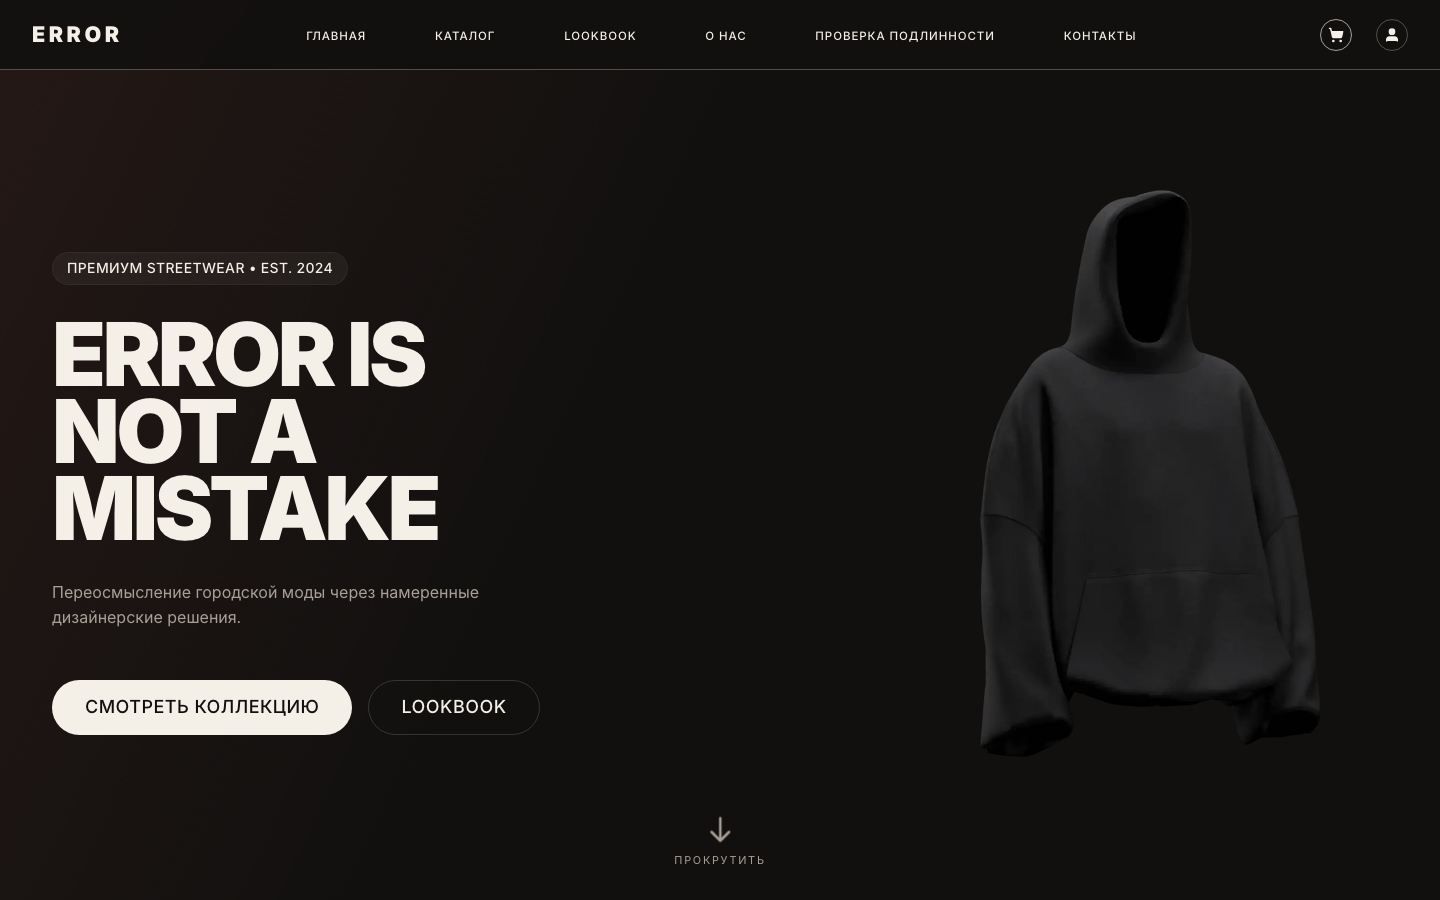
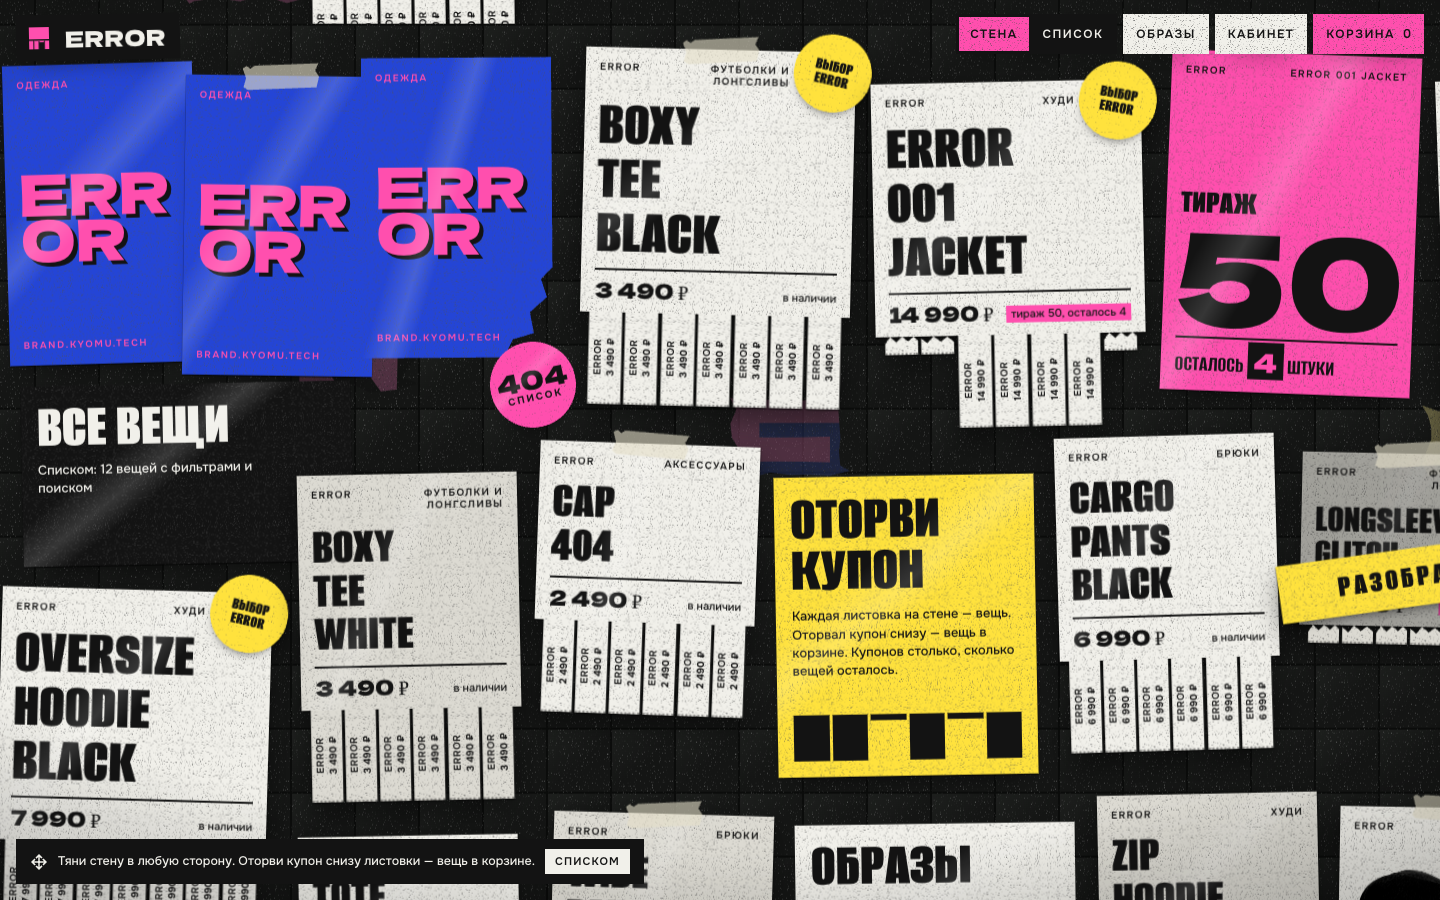
[main] Новые скриншоты и описание errorBrand

diff --git a/src/content/projects/error-brand/index.md b/src/content/projects/error-brand/index.md
@@ -2,8 +2,8 @@
 order: 4
 title: Интернет-магазин errorBrand
 kind: personal
-summary: 'Магазин бренда минималистичной одежды: каталог, корзина, личный кабинет и лукбук. Товары и покупатели хранятся в моей админ-панели.'
-stack: [TypeScript, Next.js, React, Sass, React Hook Form, Zod]
+summary: 'Магазин уличного бренда ERROR: вещи висят на бесконечной стене как отрывные объявления — оторвал купон, и вещь в корзине. Для тех, кто не хочет искать, рядом обычный список с фильтрами. Товары, заказы и покупатели хранятся в моей админ-панели.'
+stack: [TypeScript, Next.js, React, Sass, React Hook Form]
 role: Frontend
 year: '2026'
 cover: /projects/error-brand/cover.png
@@ -11,33 +11,46 @@ url: https://brand.kyomu.tech
 case:
     period: '2026'
     team: Один
-    task: 'Сделать витрину для бренда одежды, которая не хранит данные сама, а берёт их из админ-панели: каталог, остатки, аккаунты покупателей. Сотрудники меняют товар в админке — и через полминуты он обновляется на сайте.'
-    approach: 'Собрал свой набор базовых компонентов — кнопки, карточки, поля, модальные окна — и из них все страницы: главная, каталог, карточка товара, корзина, личный кабинет, лукбук и блог. Отдельно продумал состояния загрузки, пустых списков и ошибок, а также вёрстку под телефоны.'
+    task: 'Сделать витрину для уличного бренда, которая запоминается и при этом удобна для покупки. Данные сайт не хранит сам, а берёт из админ-панели: каталог, остатки, тиражи, аккаунты покупателей и заказы.'
+    approach: 'Главная — бесконечная стена из кафеля, которую тянут в любую сторону. Вещи висят на ней листовками с отрывными купонами: купон отрывается прямо в корзину, клик по листовке открывает карточку вещи. Рядом переключатель на обычный список с поиском и фильтрами, чтобы никто не потерялся. Остальные страницы — корзина, оформление, кабинет, образы — собраны из тех же бумажных элементов.'
     decisions:
-        - title: Секретный ключ не попадает в браузер
-          description: 'Запросы к админке идут только с сервера сайта. Браузер покупателя обращается к своему API, поэтому ключ доступа к админке нельзя увидеть в коде страницы.'
-        - title: Покупатели живут в админке
-          description: 'Регистрация и вход покупателей проходят через API админ-панели, поэтому магазин не хранит пароли сам, а сотрудники видят клиентов в одном месте.'
-        - title: Защита от кривых данных
-          description: 'Товар из админки проходит через адаптер: размеры и цвета берутся только если они действительно пришли списком. Странные данные не ломают карточку товара.'
+        - title: Купонов столько, сколько вещей осталось
+          description: 'Число купонов на листовке берётся из остатка в админке. Оторванный купон сразу кладёт вещь в корзину; если оторвали все, а вещи ещё есть, через секунду подклеиваются новые.'
+        - title: Стена плавная и видна сразу
+          description: 'Первые куски стены приходят в HTML с сервера, поэтому вещи видны до загрузки скриптов и попадают в поиск. Дальше стена двигается только сдвигом слоя, а новые куски дорисовываются заранее и в фоне, без рывков.'
+        - title: Ключ админки не попадает в браузер
+          description: 'Запросы к админке идут только с сервера сайта, каталог кешируется и сбрасывается сигналом из админки, когда сотрудник меняет товар.'
     code:
         source: |
-            // размеры и цвета приходят в свободном объекте атрибутов —
-            // берём значение, только если это точно список строк
-            function getStringArray(
-              attributes: Record<string, unknown>,
-              key: string,
-            ): string[] {
-              const value = attributes[key]
-              return Array.isArray(value) &&
-                value.every((entry): entry is string => typeof entry === 'string')
-                ? value
-                : []
+            function intactTabs(
+              seed: string,
+              count: number,
+              left: number,
+              torn: readonly number[],
+            ): boolean[] {
+              const gone = new Set(torn.filter((index) => index < count))
+              const limit = Math.max(0, left)
+              let intact = count - gone.size
+
+              for (const index of shuffledIndexes(seed, count)) {
+                if (intact <= limit) break
+                if (gone.has(index)) continue
+
+                gone.add(index)
+                intact--
+              }
+
+              return Array.from({ length: count }, (_, index) => !gone.has(index))
             }
-        caption: Если в админке заполнили атрибут не так, карточка покажет пустой список, а не упадёт.
-    result: 'Витрина готова: все страницы, состояния и адаптивная вёрстка. Сейчас перевожу её на новую версию API админ-панели.'
+        caption: 'Какие купоны уже оторваны: лишние убираются в случайном, но постоянном порядке, поэтому листовка выглядит одинаково при каждой загрузке.'
+    result: 'Сайт работает на brand.kyomu.tech: стена, список, карточка вещи, корзина, оформление заказа, кабинет покупателя и образы. Каталог обновляется сам, когда в админке меняют товар.'
     metrics:
-        - { value: '12', label: 'страниц' }
-        - { value: '10', label: 'базовых компонентов' }
-    gallery: [/projects/error-brand/verify.png, /projects/error-brand/about.png]
+        - { value: '10', label: 'страниц' }
+        - { value: '18', label: 'общих компонентов' }
+    gallery:
+        [
+            /projects/error-brand/sheet.png,
+            /projects/error-brand/list.png,
+            /projects/error-brand/product.png,
+        ]
 ---
